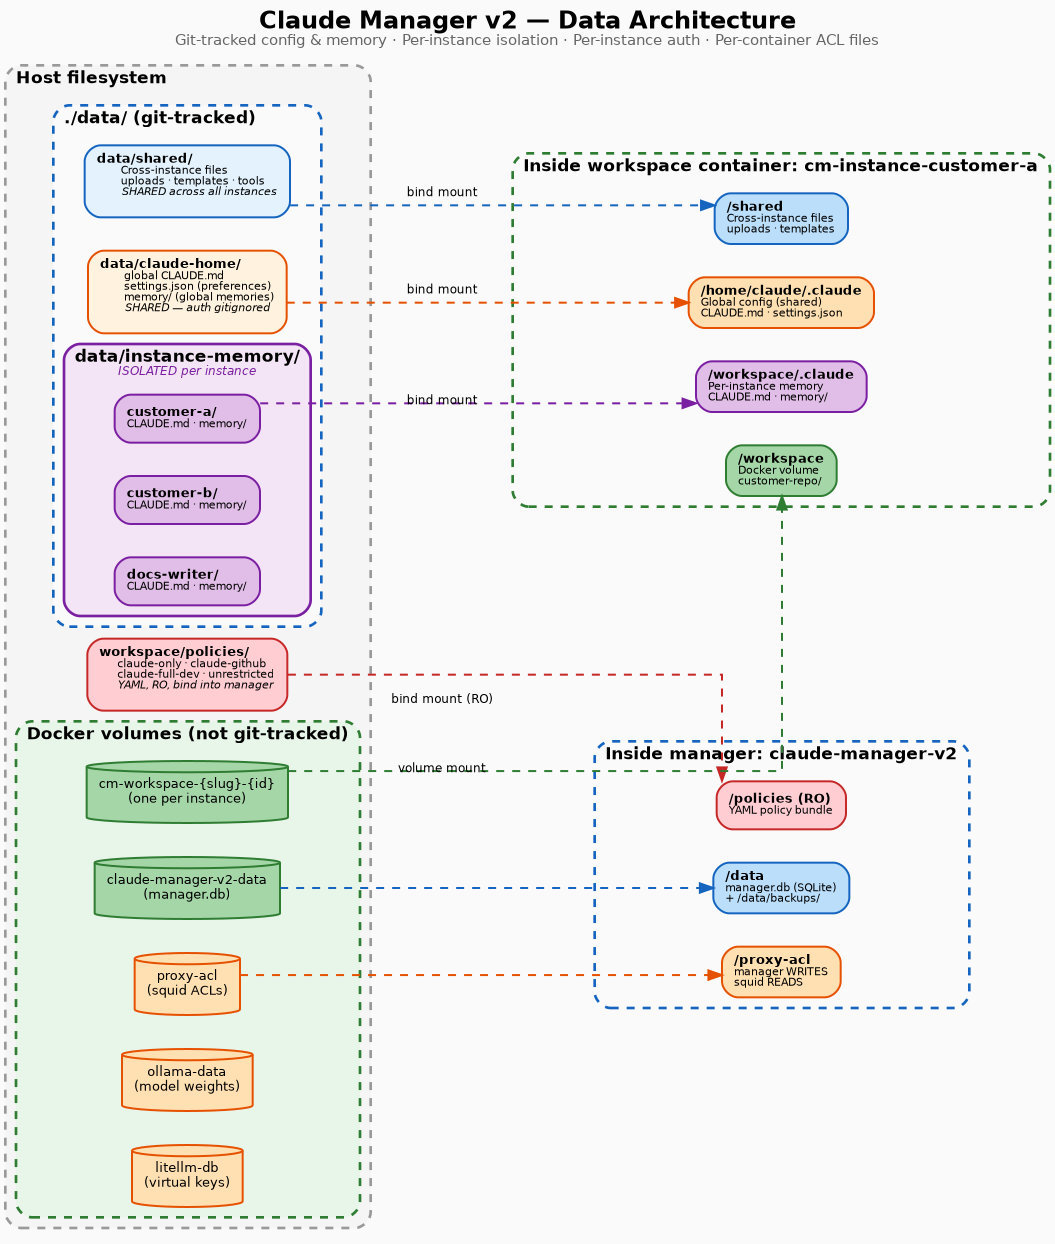
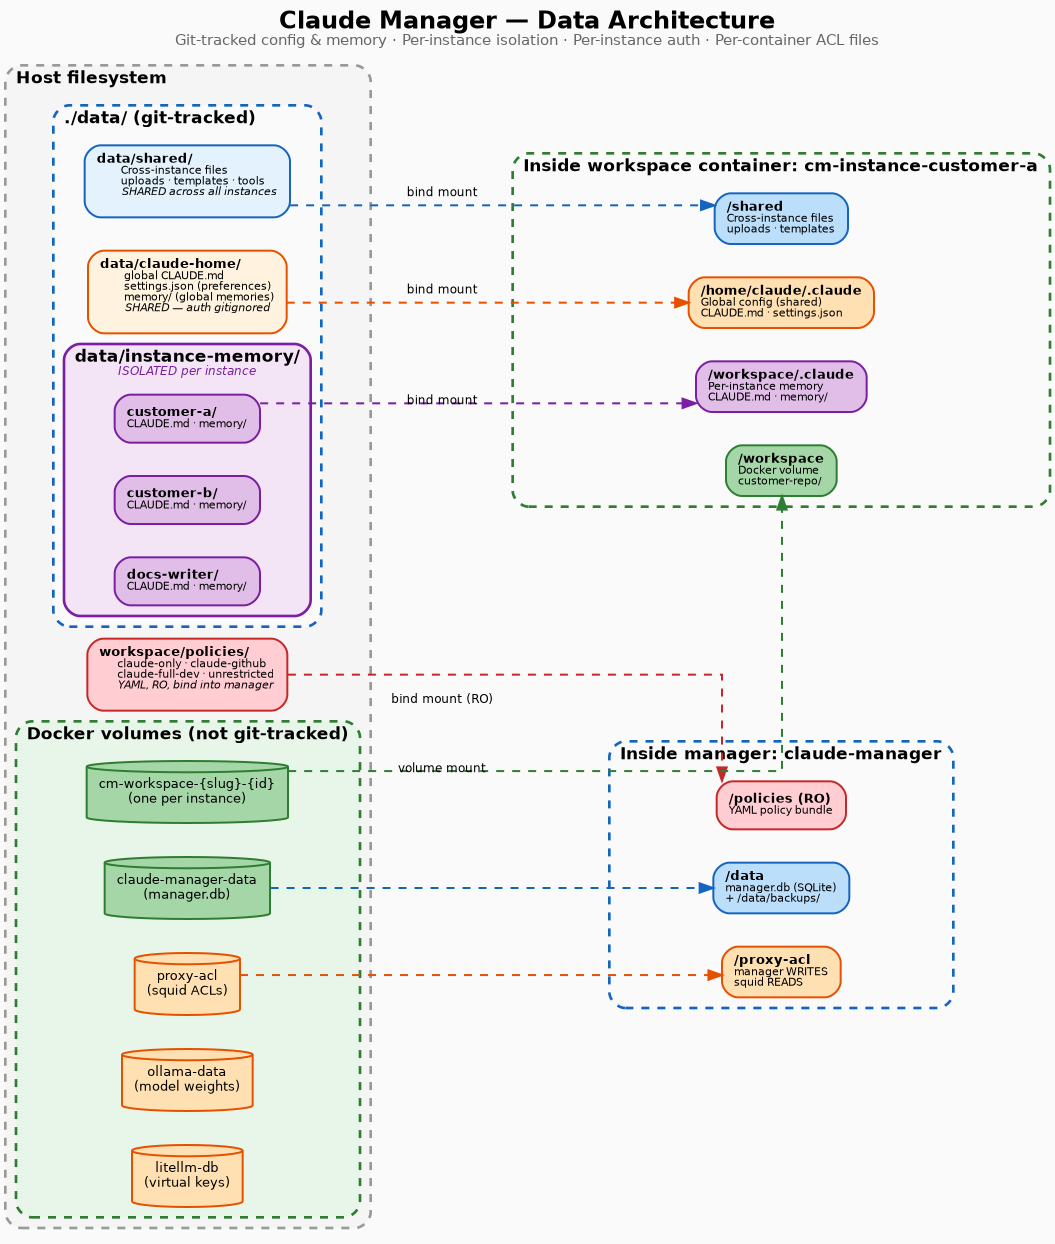
Docs sync after public-repo restructure
The public repo dropped the v2/legacy split and renamed the manager
container claude-manager-v2 → claude-manager. Documentation and
diagrams still carried the "v2" label and a few residual private/
hardware-specific references. Bringing them in line with brief.md and
the actual repo layout:

- CLAUDE.md: corrected naming conventions (cm-{slug}-{id} → cm-instance-
  {slug}-{id}; cmv-{slug}-{id} → cm-workspace-{slug}-{id}) to match
  CONTAINER_PREFIX/VOLUME_PREFIX in shared/constants.js. Expanded "key
  files" list with proxy.js, grants.js, litellm.js, cm-access,
  entrypoint.sh, and policies/*.yaml.
- docs/architecture.md, deployment.md, operations.md: dropped the
  redundant `-f docker-compose.yml` flag (it's the default compose
  file); fixed `cd claude-manager` → `cd claude-manager-public` in
  clone instructions; replaced `workspace/policies/` references with
  `policies/` (the canonical baked-into-image source), and clarified
  the relationship between the two policy directories.
- docs/deployment.md: replaced "RTX 3090+ class" wording with vendor-
  neutral "NVIDIA GPU with ≥24 GB VRAM"; added an explicit "No GPU?
  comment out cm-ollama" note in the Quick Deploy section.
- docs/roadmap.md: bumped status header to 2026-05-23; dropped the
  stale "port 3002, docker-compose.yml" parenthetical now that there's
  only one compose file.
- diagrams: stripped "v2" from every title and label
  (Architecture / Data Architecture / Deployment / LLM Routing /
[…]

Changed region(s): [[0.2427, 0.0, 0.7583, 0.0305], [0.5763, 0.5804, 0.91, 0.6109], [0.091, 0.672, 0.273, 0.7331]]

diff --git a/docs/diagrams/deployment.py b/docs/diagrams/deployment.py
@@ -18,7 +18,7 @@ node_attr = {"fontname": "Helvetica", "fontsize": "11"}
 edge_attr = {"fontname": "Helvetica", "fontsize": "9"}
 
 with Diagram(
-    "Claude Manager v2 — Deployment",
+    "Claude Manager — Deployment",
     filename="deployment",
     outformat="png",
     show=False,
@@ -33,7 +33,7 @@ with Diagram(
         docker = Docker("Docker Engine")
 
         with Cluster("Manager"):
-            manager = Server("claude-manager-v2\nFastify 5 + React 19\n:3002")
+            manager = Server("claude-manager\nFastify 5 + React 19\n:3002")
             db = Storage("manager.db\nSQLite + WAL")
             manager - db
 

diff --git a/docs/deployment.md b/docs/deployment.md
@@ -84,7 +84,7 @@ Without a GPU you have three options:
 | `cm-proxy`                     | ~50 MB | squid is tiny                               |
 | `cm-litellm`                   | ~512 MB| Python proxy                                |
 | `cm-litellm-db`                | ~256 MB| Idle PostgreSQL                             |
-| `cm-ollama` (Qwen3 30B-A3B)    | 24 GB VRAM + 4 GB RAM | RTX 3090+ class GPU (≥24 GB VRAM) |
+| `cm-ollama` (Qwen3 30B-A3B)    | 24 GB VRAM + 4 GB RAM | NVIDIA GPU with ≥24 GB VRAM        |
 | Each workspace instance        | ~2 GB  | Depends on workload                         |
 
 A host with 32 GB RAM + an NVIDIA GPU (≥24 GB VRAM) comfortably runs the full stack
@@ -110,22 +110,27 @@ separate repo to clone — see step 2 below.
 
 ```bash
 git clone https://github.com/FrederikLeed/claude-manager-public.git
-cd claude-manager
+cd claude-manager-public
 
 # 1. Configure host paths and secrets
 cp .env.example .env
 # edit .env — at minimum set INSTANCE_SHARED_DIR, INSTANCE_CLAUDE_DIR,
-# INSTANCE_MEMORY_BASE_DIR to ABSOLUTE host paths
+# INSTANCE_MEMORY_BASE_DIR to ABSOLUTE host paths and pick a
+# LITELLM_MASTER_KEY (any random string)
 
 # 2. Build all images (manager, workspace, proxy, litellm)
-docker compose -f docker-compose.yml --profile build-only build
+docker compose --profile build-only build
 
 # 3. Start the stack
-docker compose -f docker-compose.yml up -d
+docker compose up -d
 
 # 4. Verify
-docker compose -f docker-compose.yml ps
+docker compose ps
 ```
+
+No NVIDIA GPU? Comment out the `cm-ollama` service in `docker-compose.yml`.
+The `local-llm` backend won't work, but `claude-max` and the `foundry*`
+backends (Azure AI Foundry) work fine without local inference.
 
 Open **http://localhost:3002**. The first browser to load it is
 auto-approved as the admin device (see
@@ -161,7 +166,7 @@ On first start the manager:
 | `INSTANCE_MEMORY_DIR` | *(unset)* | Legacy single-shared project memory; leave empty when using the base dir |
 | `ADMIN_RESET_TOKEN` | *(unset)* | Emergency admin promotion via `?reset_token=…` |
 | `DEFAULT_NETWORK_POLICY` | `unrestricted` | Pre-selected policy in the create modal |
-| `POLICIES_HOST_DIR` | *(unset)* | Host path of `workspace/policies/` (overrides volume) |
+| `POLICIES_HOST_DIR` | *(unset)* | Optional override — host path to a policy directory. Default behaviour reads `/app/policies/` (baked into the image from `policies/`). |
 | `POLICIES_VOLUME` | `cm-policies` | Alternative for DinD setups |
 | `POLICIES_DIR` | `/app/policies` | Where the manager reads policy YAML inside its own container |
 | `PROXY_URL` | `http://cm-proxy:3128` | Proxy URL injected into restricted instances |
@@ -233,10 +238,16 @@ Two knobs control the out-of-the-box defaults:
 - `LITELLM_DEFAULT_BUDGET=20` — each `local-llm` / `foundry*` instance
   gets a $20 LiteLLM budget.
 
-The four policy YAMLs live in `workspace/policies/`. To add a custom
-policy, drop a YAML file there (same schema as the existing ones) and
-restart the manager — `listPolicies()` reads the directory on each
-call.
+The four policy YAMLs live in `policies/` at the repo root and are
+**baked into the manager image at build time** (`COPY policies/
+./policies/` in the Dockerfile, manager reads `/app/policies`). The
+same set is kept under `workspace/policies/` for symmetry, so anything
+inside a workspace container can also reference policy YAML by path
+rather than only through `/api/policies`. To add a custom policy:
+
+1. Drop a YAML file in `policies/`.
+2. Copy it to `workspace/policies/` to keep the two copies in sync.
+3. Rebuild the manager image (`docker compose --profile build-only build claude-manager`).
 
 ### Restart policy
 
@@ -244,7 +255,7 @@ All services use `restart: unless-stopped`. After host reboots the
 stack comes back automatically. To stop the whole stack:
 
 ```bash
-docker compose -f docker-compose.yml stop
+docker compose stop
 ```
 
 ---
@@ -317,10 +328,10 @@ Traefik passes WebSocket upgrades automatically.
 ## 5. Updating
 
 ```bash
-cd claude-manager
+cd claude-manager-public
 git pull
-docker compose -f docker-compose.yml --profile build-only build
-docker compose -f docker-compose.yml up -d
+docker compose --profile build-only build
+docker compose up -d
 ```
 
 Database migrations run automatically — `CREATE TABLE IF NOT EXISTS` +
@@ -350,10 +361,10 @@ The startup snapshot is the easy story. For an on-demand backup:
 
 ```bash
 # Option A — stop and copy (safest)
-docker compose -f docker-compose.yml stop claude-manager
+docker compose stop claude-manager
 cp "$(docker volume inspect claude-manager-data --format '{{.Mountpoint}}')/manager.db" \
    ~/backups/claude-manager-$(date +%Y%m%d).db
-docker compose -f docker-compose.yml start claude-manager
+docker compose start claude-manager
 
 # Option B — online (.backup, WAL-safe)
 docker exec claude-manager sh -c \
@@ -367,12 +378,11 @@ docker exec claude-manager rm /data/manager-backup.db
 
 To restore on a new host:
 
-1. Clone the repo (this brings back `data/`, `workspace/policies/`,
-   compose files, etc).
+1. Clone the repo (this brings back `data/`, `policies/`, compose files, etc).
 2. `cp .env.example .env` and set `INSTANCE_*_DIR` to the new absolute
    host paths.
-3. `docker compose -f docker-compose.yml --profile build-only build`
-4. `docker compose -f docker-compose.yml up -d`
+3. `docker compose --profile build-only build`
+4. `docker compose up -d`
 5. From the new admin device, set `ADMIN_RESET_TOKEN` in `.env`,
    restart, register with `?reset_token=…`, then clear the env var.
 6. Each instance re-authenticates (`claude login`, `gh auth login`) on
@@ -412,13 +422,13 @@ Failed to pull image "claude-workspace:latest": ...
 ```bash
 docker images | grep claude-workspace
 # If missing:
-docker compose -f docker-compose.yml --profile build-only build claude-workspace
+docker compose --profile build-only build claude-workspace
 ```
 
 ### `cm-ollama` exits / no GPU
 
 ```bash
-docker compose -f docker-compose.yml logs cm-ollama
+docker compose logs cm-ollama
 ```
 
 Likely causes:
@@ -436,7 +446,7 @@ can mint virtual keys). Both pick up the same `.env` value via
 ### Restricted instance can't reach an allowed host
 
 1. `cm-access --status` inside the container to see effective access.
-2. Verify the host is in the policy YAML (`workspace/policies/<policy>.yaml`).
+2. Verify the host is in the policy YAML (`policies/<policy>.yaml`).
 3. Inspect the ACL file: `docker exec cm-proxy cat /etc/squid/acl/<id>.acl`.
 4. Check the proxy log: `docker logs cm-proxy --tail 50`.
 5. Make sure the agent isn't bypassing `HTTPS_PROXY` — the iptables
@@ -459,7 +469,7 @@ If `SHARED_DIR` wasn't set, Docker may have created `/shared` as a
 root-owned host directory. Set it in `.env`, recreate the manager:
 
 ```bash
-docker compose -f docker-compose.yml up -d --force-recreate claude-manager
+docker compose up -d --force-recreate claude-manager
 ```
 
 ---

diff --git a/docs/architecture.md b/docs/architecture.md
@@ -63,10 +63,9 @@ claude-manager/
 - Shared: `/home/claude/.claude` (global config + memory + agent
   instructions) and `/shared` (utility files).
 
-Push `data/` to GitHub, clone on a new host, `docker compose -f
-docker-compose.yml up` — settings and memory are restored. Each
-instance re-authenticates (`claude login` for `claude-max`, `gh auth
-login`) on first use.
+Push `data/` to GitHub, clone on a new host, `docker compose up` —
+settings and memory are restored. Each instance re-authenticates
+(`claude login` for `claude-max`, `gh auth login`) on first use.
 
 ---
 
@@ -74,7 +73,7 @@ login`) on first use.
 
 Each workspace container runs under one of four policies:
 
-| Policy             | Hosts allowed (see `workspace/policies/*.yaml`)                 |
+| Policy             | Hosts allowed (see `policies/*.yaml`)                           |
 |--------------------|-----------------------------------------------------------------|
 | `claude-only`      | `api.anthropic.com`, `statsig.anthropic.com`, `sentry.io`       |
 | `claude-github`    | + GitHub (api / web / objects / raw / gist / ssh)               |
@@ -325,7 +324,7 @@ server/
     ├── auth.js              /api/auth/* — device registration & approval
     ├── grants.js            /api/instances/:id/grants, /api/grants/:id/{renew,recreate}, DELETE
     ├── access-requests.js   /api/instances/:id/request-access, /api/access-requests/:id/{approve,deny}
-    ├── policies.js          /api/policies — lists workspace/policies/*.yaml
+    ├── policies.js          /api/policies — lists policies/*.yaml (baked into image at /app/policies)
     ├── litellm.js           /api/litellm/status, /api/litellm/models, per-instance key endpoints
     ├── shared.js            /api/shared/upload (multipart, 50 MB)
     └── system.js            /api/system, /api/system/activity
@@ -529,7 +528,7 @@ All configuration is via environment variables; see `.env.example`.
 | `INSTANCE_MEMORY_DIR`     | *(unset)*                      | Legacy single-shared project memory; leave empty           |
 | `ADMIN_RESET_TOKEN`       | *(unset)*                      | Emergency admin promotion via `?reset_token=…`             |
 | `DEFAULT_NETWORK_POLICY`  | `unrestricted`                 | Pre-selected policy in the create modal                    |
-| `POLICIES_HOST_DIR`       | *(unset)*                      | Host path of `workspace/policies/`; bind-mounted as `/policies` (RO) |
+| `POLICIES_HOST_DIR`       | *(unset)*                      | Optional override — host path to a policy directory (bind-mounted into the manager). Default behaviour is to read the policies copied into the image at `/app/policies`. |
 | `POLICIES_VOLUME`         | `cm-policies`                  | Alternative to `POLICIES_HOST_DIR` for DinD setups         |
 | `POLICIES_DIR`            | `/app/policies` (in container) | Where the manager reads policy YAML from                   |
 | `PROXY_URL`               | `http://cm-proxy:3128`         | Forward proxy injected into restricted instances           |
@@ -547,8 +546,8 @@ for the `foundry` / `foundry-latest` backends — see
 ## 12. Build + deploy
 
 ```bash
-docker compose -f docker-compose.yml --profile build-only build
-docker compose -f docker-compose.yml up -d
+docker compose --profile build-only build
+docker compose up -d
 ```
 
 The `build-only` profile builds the workspace image alongside the

diff --git a/CLAUDE.md b/CLAUDE.md
@@ -7,9 +7,18 @@ Includes the workspace Docker image source in workspace/.
 
 ## Key files to understand first
 - server/docker.js — all Docker Engine API interaction, instance creation with mount logic
+- server/proxy.js — per-container squid ACL generation
+- server/grants.js — time-bound capability grants (docker_socket, network_unrestricted)
+- server/litellm.js — per-instance virtual key lifecycle
 - server/routes/instances.js — REST API
+- server/routes/access-requests.js — agent ↔ admin access negotiation
 - src/components/Dashboard.jsx — main UI entry point
 - workspace/Dockerfile — the Claude Code workspace image
+- workspace/scripts/cm-access — agent-side CLI for querying/requesting network access
+- workspace/scripts/entrypoint.sh — iptables lock applied when network policy is restricted
+- proxy/squid.conf + proxy/watch-acls.sh — forward-proxy enforcement
+- litellm/config.yaml — LiteLLM model routing (Claude name aliases, Azure)
+- policies/*.yaml — network policy YAML (baked into manager image at /app/policies)
 
 ## Data architecture
 - data/shared/ — files shared across all instances (/shared mount)
@@ -37,10 +46,11 @@ Instance metadata (human name, tags, notes) stored in SQLite at /data/manager.db
 The workspace image is built from workspace/Dockerfile in this repo.
 
 ## Naming conventions
-- Docker container names: cm-{slug}-{id}
-- Docker volumes: cmv-{slug}-{id}
-- Docker network: claude-manager-net
-- Instance memory dirs: data/instance-memory/{slug}/
+- Docker container names: cm-instance-{slug}-{id}  (CONTAINER_PREFIX in shared/constants.js)
+- Docker volumes:         cm-workspace-{slug}-{id} (VOLUME_PREFIX)
+- Docker network:         claude-manager-net
+- Instance memory dirs:   data/instance-memory/{slug}/
+- Sidecars:               cm-proxy, cm-litellm, cm-ollama, cm-litellm-db
 
 ## Do not
 - Do not use docker-compose CLI from within the container (no CLI in image)

diff --git a/docs/operations.md b/docs/operations.md
@@ -155,8 +155,11 @@ Pick at instance creation, or change later via the recreate flow.
 | `claude-full-dev` | + npm, yarn, PyPI, files.pythonhosted.org, Cargo, Docker Hub |
 | `unrestricted` | No filtering — requires `network_unrestricted` grant (default 24 h) |
 
-The exact host lists live in `workspace/policies/*.yaml`. Drop in a
-custom YAML there to add new policies (restart manager to pick it up).
+The exact host lists live in `policies/*.yaml` (baked into the
+manager image at `/app/policies`). To add a custom policy, drop a
+YAML file in `policies/`, also copy it to `workspace/policies/` to
+keep `cm-access` views consistent, then rebuild the manager image
+(`docker compose --profile build-only build claude-manager`).
 
 ### Approving access requests
 
@@ -382,10 +385,10 @@ out.
 ### Logs
 
 ```bash
-docker compose -f docker-compose.yml logs claude-manager --tail 50 -f
-docker compose -f docker-compose.yml logs cm-proxy --tail 50
-docker compose -f docker-compose.yml logs cm-litellm --tail 50
-docker compose -f docker-compose.yml logs cm-ollama --tail 50
+docker compose logs claude-manager --tail 50 -f
+docker compose logs cm-proxy --tail 50
+docker compose logs cm-litellm --tail 50
+docker compose logs cm-ollama --tail 50
 ```
 
 ---

diff --git a/docs/roadmap.md b/docs/roadmap.md
@@ -1,10 +1,9 @@
 # Claude Manager -- Roadmap
 
-> **Status as of 2026-05-22** — Phase 1 (MVP), much of Phase 2
+> **Status as of 2026-05-23** — Phase 1 (MVP), much of Phase 2
 > (observability), and the network-policy work originally planned as
-> Phase 3.5 are all shipped (port 3002, `docker-compose.yml`).
-> Implementation differs slightly from what's described below — the
-> design notes are kept for context, but see
+> Phase 3.5 are all shipped. Implementation differs slightly from what's
+> described below — the design notes are kept for context, but see
 > [architecture.md](architecture.md) and [brief.md](../brief.md) for
 > what actually ships.
 

diff --git a/docs/diagrams/capabilities.md b/docs/diagrams/capabilities.md
@@ -1,10 +1,10 @@
 ---
-title: What Claude Manager v2 gives the operator
+title: What Claude Manager gives the operator
 markmap:
   colorFreezeLevel: 2
 ---
 
-# Claude Manager v2
+# Claude Manager
 
 ## Instance lifecycle
 ### Create · Start · Stop · Remove
